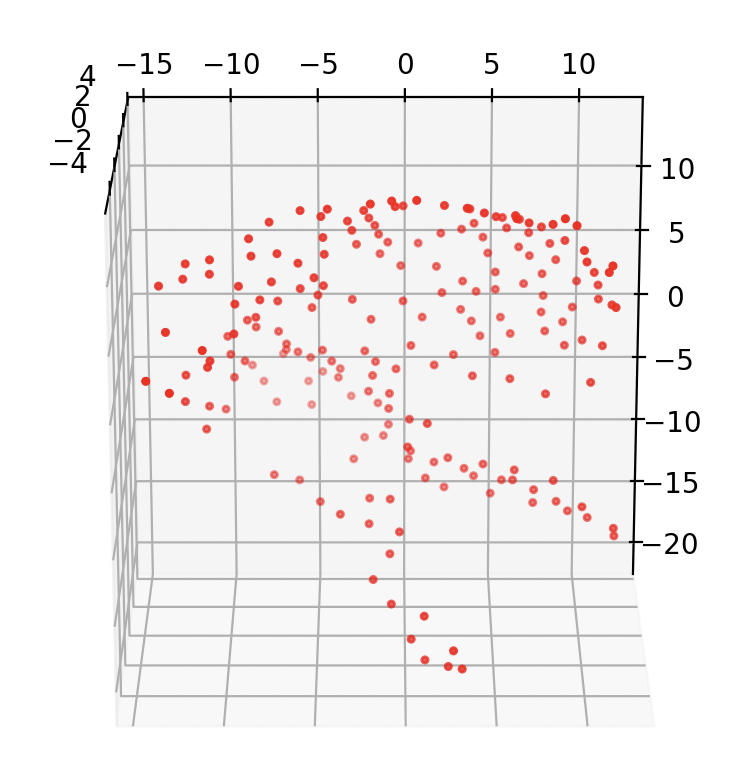
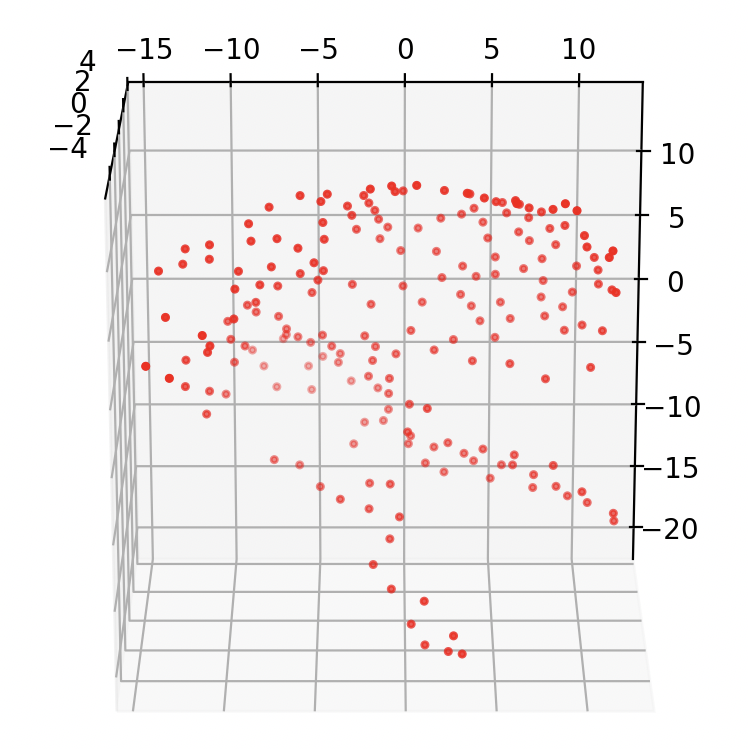
formatting image update

diff --git a/_projects/3_structure_from_motion.md b/_projects/3_structure_from_motion.md
@@ -38,10 +38,10 @@ __Important: You can obtain 3 bonus marks for each section you finish and demo w
 The key insight is that when tracking $$P$$ feature points across $$F$$ frames (views), the resulting $$2F \times P$$ **measurement matrix** will have rank 3 for a rigid scene under orthographic projection, after proper normalization (centering). This matrix can be factored into motion and shape matrices via Singular Value Decomposition (SVD).
 
 <div class="row justify-content-sm-center">
-    <div class="col-sm-6 mt-3 mt-md-0">
+    <div class="col-sm-4 mt-3 mt-md-0">
         {% include figure.liquid path="assets/img/Hotel.gif" title="Tracked points in hotel dataset" class="img-fluid rounded z-depth-1" %}
     </div>
-    <div class="col-sm-6 mt-3 mt-md-0">
+    <div class="col-sm-4 mt-3 mt-md-0">
         {% include figure.liquid path="assets/img/affine_example.png" title="reconstructed 3D points of hotel" class="img-fluid rounded z-depth-1" %}
     </div>
 </div>
@@ -82,7 +82,7 @@ For each dataset (hotel and your own), save the following figures to include in 
 - [Textured 3D models can be found here](http://kunzhou.net/tex-models.htm)
 
 <div class="row justify-content-sm-center">
-    <div class="col-sm-4 mt-3 mt-md-0">
+    <div class="col-sm-5 mt-3 mt-md-0">
         {% include figure.liquid path="assets/img/tiger_controls.png" title="obtained from capture_motion.py" class="img-fluid rounded z-depth-1" %}
     </div>
 </div>
@@ -102,10 +102,10 @@ The factorization method you implemented in Part 1 yields a reconstruction that 
 In this question, you will implement the metric upgrade procedure to transform your affine reconstruction into a Euclidean one. You will then use a known scale factor between feature points to properly scale your reconstructed model to real-world dimensions.
 
 <div class="row justify-content-sm-center">
-    <div class="col-sm-6 mt-3 mt-md-0">
+    <div class="col-sm-4 mt-3 mt-md-0">
         {% include figure.liquid path="assets/img/bunny_front.gif" title="3D mesh of head" class="img-fluid rounded z-depth-1" %}
     </div>
-    <div class="col-sm-6 mt-3 mt-md-0">
+    <div class="col-sm-4 mt-3 mt-md-0">
         {% include figure.liquid path="assets/img/bunny_front_2.png" title="Tracked feature points and fill matrix visualization" class="img-fluid rounded z-depth-1" %}
     </div>
 </div>
@@ -154,7 +154,7 @@ Now $$R_{\text{euclid}}$$ should represent valid rotation matrices (scaled) and 
 To obtain a model with real-world dimensions, you need to use known physical measurements between feature points. Use The figure below to calibrate the scale of your Hotel reconstruction from Part 1:
 
 <div class="row justify-content-sm-center">
-    <div class="col-sm-10 mt-3 mt-md-0">
+    <div class="col-sm-12 mt-3 mt-md-0">
         {% include figure.liquid path="assets/img/measure.png" title="obtained from capture_motion.py" class="img-fluid rounded z-depth-1" %}
     </div>
 </div>
